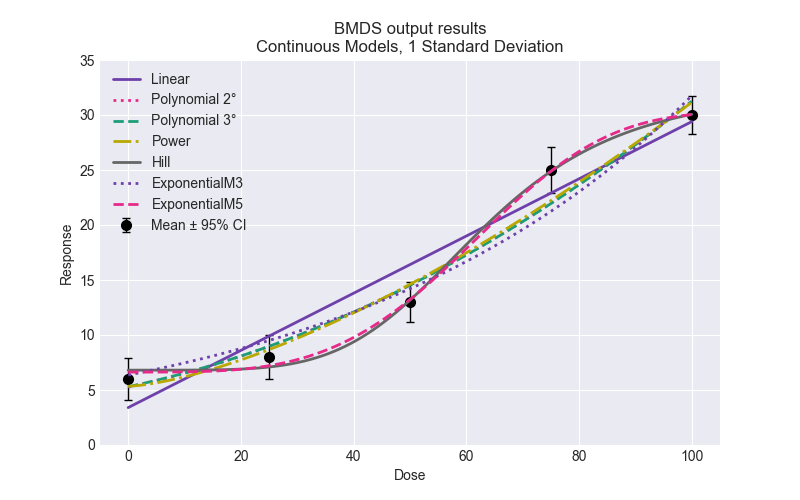
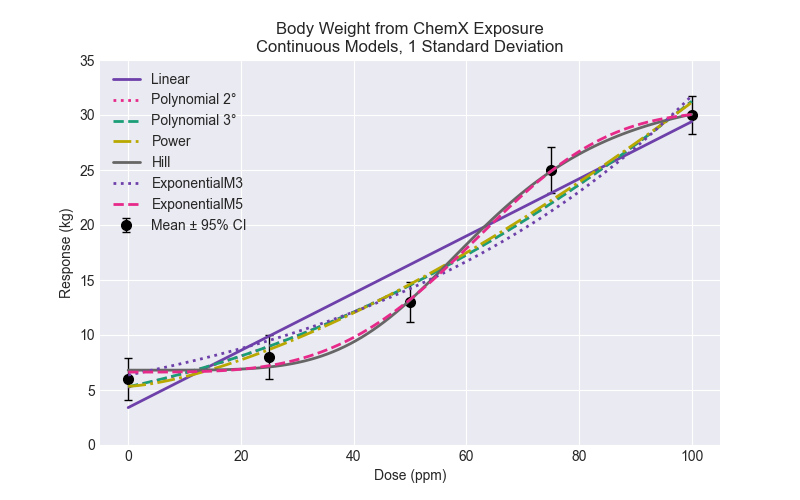
add dataset names and parameter initial values

Changed region(s): [[0.3438, 0.03, 0.6875, 0.09], [0.0625, 0.42, 0.0938, 0.6], [0.4688, 0.93, 0.5625, 0.96]]

diff --git a/docs/docs/cont.md b/docs/docs/cont.md
@@ -45,7 +45,7 @@ report.save("report.docx")
 
 ## Create a continuous dataset
 
-To create a continuous dataset, you need a list of doses, mean responses, standard deviations, and the total number of subjects. As shown above, you use the ```ContinuousDataset()``` function and insert your data. You can also create a plot of the dataset:
+To create a continuous dataset, you need a list of doses, mean responses, standard deviations, and the total number of subjects. As shown above, you use the ```ContinuousDataset()``` function and insert your data. You can specify the title of the dataset and the dose and response units. You can also create a plot of the dataset which will have the title that you name the dataset and the specified units. For example, here the dataset name is "Body Weight from ChemX Exposure".
 
 ```python
 import bmds
@@ -53,7 +53,9 @@ from bmds import ContinuousDataset
 from bmds.bmds3.models import continuous
 from bmds.bmds3.types.continuous import ContinuousRiskType
 
-dataset = ContinuousDataset(
+dataset = ContinuousDataset(name="Body Weight from ChemX Exposure",
+    dose_units="ppm",
+    response_units="kg",
     doses=[0, 25, 50, 75, 100],
     ns=[20, 20, 20, 20, 20],
     means=[6, 8, 13, 25, 30],
@@ -189,6 +191,46 @@ continuous.Hill(dataset)
 continuous.ExponentialM3(dataset)
 continuous.ExponentialM5(dataset)
 ```
+
+## Changing initial model parameter settings
+
+If you want to see a preview of the initial parameter settings, you can run:
+
+```python
+model = continuous.Hill(dataset)
+print(model.settings.priors.tbl())
+```
+
+For the Hill model example that was shown above, the parameters and ranges will show:
+
+```python
+╒════════╤═════════╤═══════════╤═════════╤═══════╤═══════╕
+│ name   │ type    │   initial │   stdev │   min │   max │
+╞════════╪═════════╪═══════════╪═════════╪═══════╪═══════╡
+│ g      │ Uniform │         0 │       0 │  -100 │   100 │
+│ v      │ Uniform │         0 │       0 │  -100 │   100 │
+│ k      │ Uniform │         0 │       0 │     0 │     5 │
+│ n      │ Uniform │         1 │       0 │     1 │    18 │
+│ rho    │ Uniform │         0 │       0 │   -18 │    18 │
+│ alpha  │ Uniform │         0 │       0 │   -18 │    18 │
+╘════════╧═════════╧═══════════╧═════════╧═══════╧═══════╛
+```
+
+You can also change the initial parameter settings shown above for any run of a single continuous model. For example, continuing with the Hill model example, you can set the power parameter `n` to be equal to 1. You do this by changing the initial, minimum, and maximum values of that parameter:
+
+```python
+model = continuous.Hill(dataset)
+
+n = model.settings.priors.get_prior('n')
+n.initial_value = 1
+n.min_value = 1
+n.max_value = 1
+model.execute()
+text = model.text()
+print(text)
+```
+
+You can change the range and initial value for any parameter in the model by following the same steps above.
 
 ## Run all models and select the best fit
 

diff --git a/docs/docs/dicho.md b/docs/docs/dicho.md
@@ -43,7 +43,7 @@ report.save("report.docx")
 
 ## Create a dichotomous dataset
 
-To create a dichotomous dataset, you need a list of doses, incidences, and the total number of subjects. As shown above, you use the ```DichotomousDataset()``` function and insert your data. You can also create a plot of the dataset:
+To create a dichotomous dataset, you need a list of doses, incidences, and the total number of subjects. As shown above, you use the ```DichotomousDataset()``` function and insert your data. You can specify the title of the dataset and the dose units. You can also create a plot of the dataset which will have the title that you name the dataset and the specified units. For example, here the dataset name is "ChemX Nasal Lesion Incidence".
 
 ```python
 import bmds
@@ -51,7 +51,8 @@ from bmds import DichotomousDataset
 from bmds.bmds3.models import dichotomous
 from bmds.bmds3.types.dichotomous import DichotomousRiskType
 
-dataset = DichotomousDataset(
+dataset = DichotomousDataset(name="ChemX Nasal Lesion Incidence",
+    dose_units="ppm",
     doses=[0, 25, 75, 125, 200],
     ns=[20, 20, 20, 20, 20],
     incidences=[0, 1, 7, 15, 19],
@@ -160,6 +161,46 @@ dichotomous.Gamma(dataset)
 dichotomous.Weibull(dataset)
 dichotomous.Hill(dataset)
 ```
+
+## Changing initial model parameter settings
+
+If you want to see a preview of the initial parameter settings, you can run:
+
+```python
+model = dichotomous.Logistic(dataset)
+print(model.settings.priors.tbl())
+```
+
+For the Logistic model example that was shown above, the parameters and ranges will show:
+
+```python
+╒════════╤═════════╤═══════════╤═════════╤═══════╤═══════╕
+│ name   │ type    │   initial │   stdev │   min │   max │
+╞════════╪═════════╪═══════════╪═════════╪═══════╪═══════╡
+│ a      │ Uniform │         0 │       0 │   -18 │    18 │
+│ b      │ Uniform │         0 │       0 │     0 │   100 │
+╘════════╧═════════╧═══════════╧═════════╧═══════╧═══════╛
+```
+
+You can also change the initial parameter settings shown above for any run of a single dichotomous model. For example, continuing with the Logistic model example, you can change the minimum and maximum range for `a` to be from -10 to 10 and `b` to be from 0 to 50. 
+
+```python
+model = dichotomous.Logistic(dataset)
+
+a = model.settings.priors.get_prior('a')
+a.initial_value = 0
+a.min_value = -10
+a.max_value = 10
+b = model.settings.priors.get_prior('b')
+b.initial_value = 0
+b.min_value = 0
+b.max_value = 50
+model.execute()
+text = model.text()
+print(text)
+```
+
+You can change the range and initial value for any parameter in the model by following the same steps above.
 
 ## Run all models and select the best fit
 
